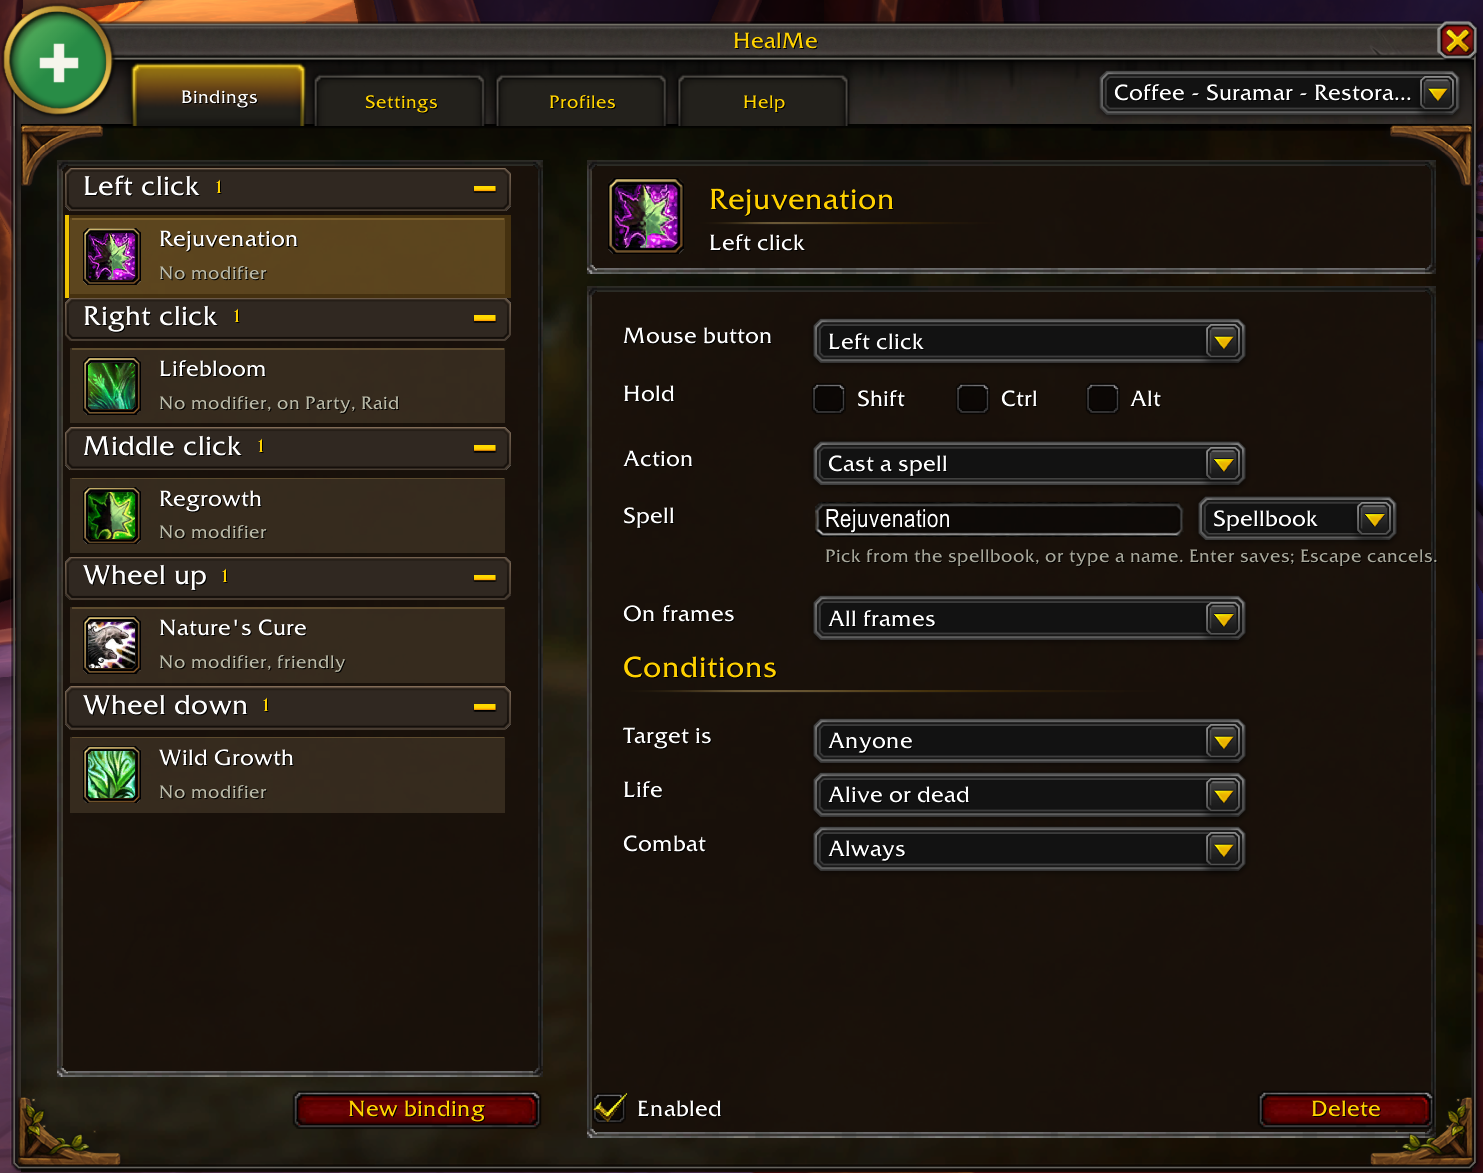
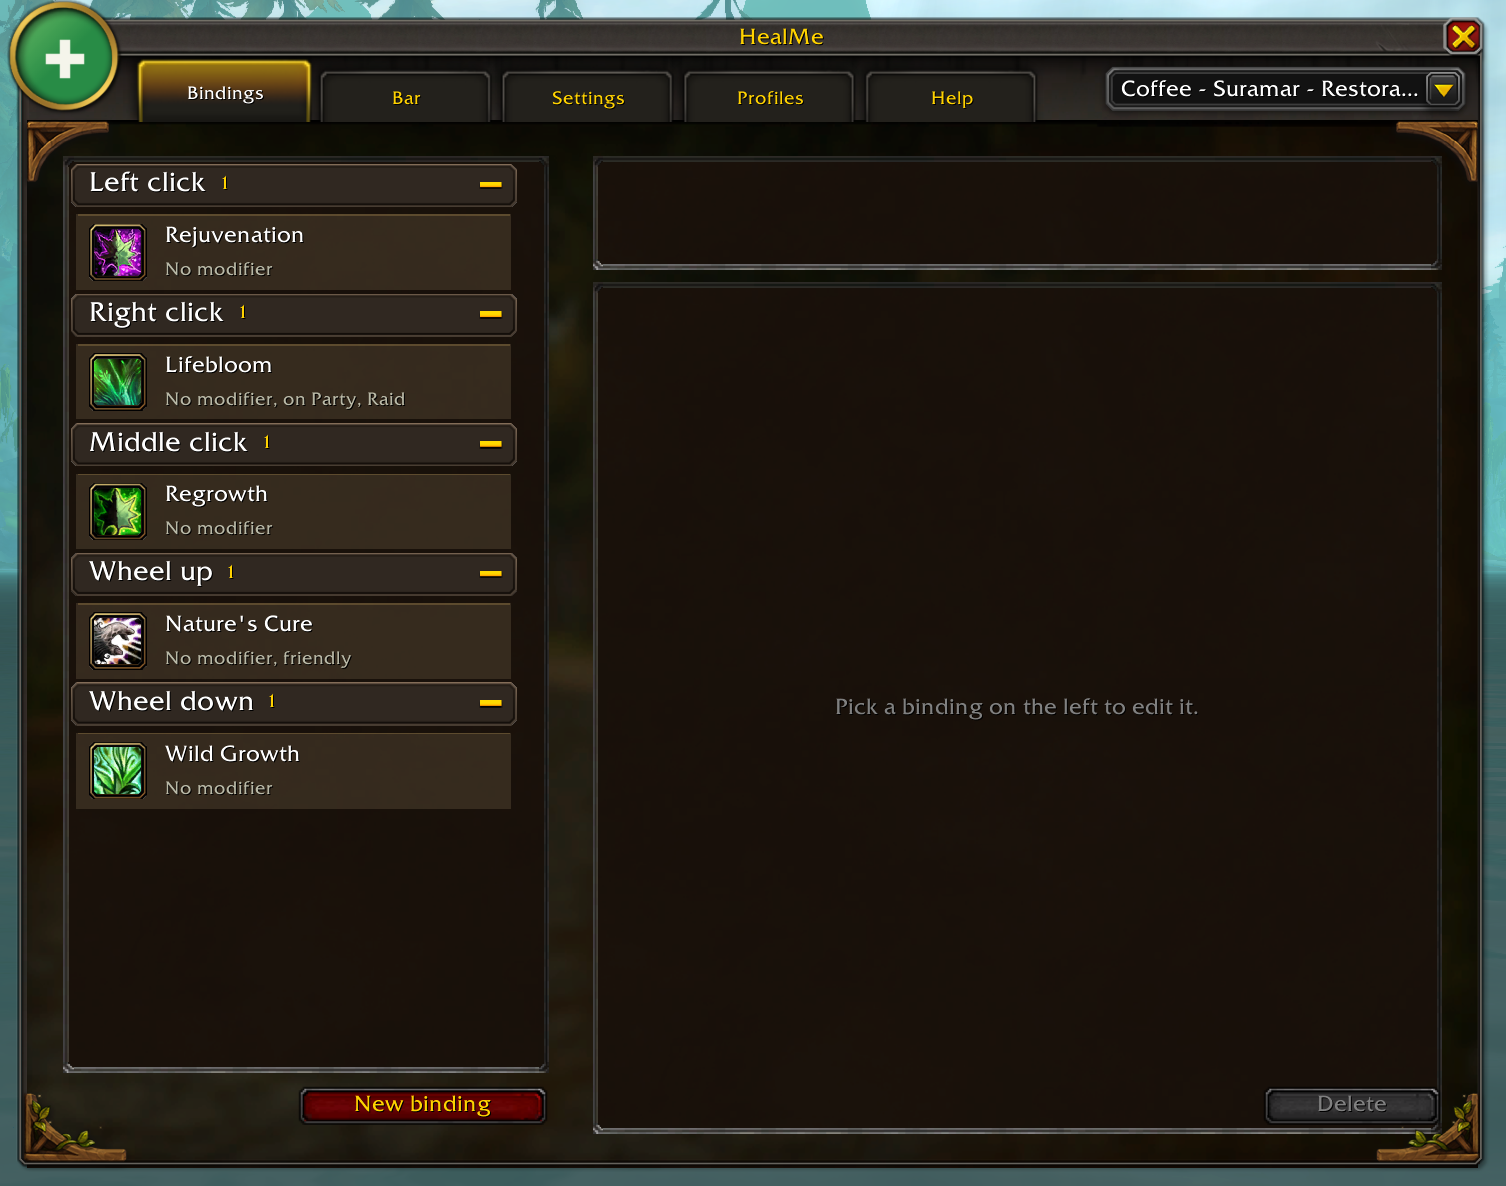
Refresh the panel screenshots and add the Bar and Settings tabs

diff --git a/README.md b/README.md
@@ -56,6 +56,8 @@ raid container, which is the main-tank column when you show one.
 Like Blizzard's action bars, every button briefly swipes on the global
 cooldown after any cast.
 
+![The Bar tab: the spell list, Move up, Move down and Remove, and the Side and Size placement dropdowns](https://raw.githubusercontent.com/CoffeeAndLoot/healme/main/images/bar-tab.png)
+
 HealMe will not run alongside Clique or Clicked; all three claim the same
 click-casting frames. Disable the others first.
 
@@ -66,6 +68,8 @@ feature in-game.
 ![The Profiles tab: profile list, actions, and automatic switching rules](https://raw.githubusercontent.com/CoffeeAndLoot/healme/main/images/profiles-tab.png)
 
 ![The Help tab: one collapsible topic per feature](https://raw.githubusercontent.com/CoffeeAndLoot/healme/main/images/help-tab.png)
+
+![The Settings tab: also-target, the minimap button, Blizzard click-casting, the self-test, and export and import](https://raw.githubusercontent.com/CoffeeAndLoot/healme/main/images/settings-tab.png)
 
 ## What it will never do
 
